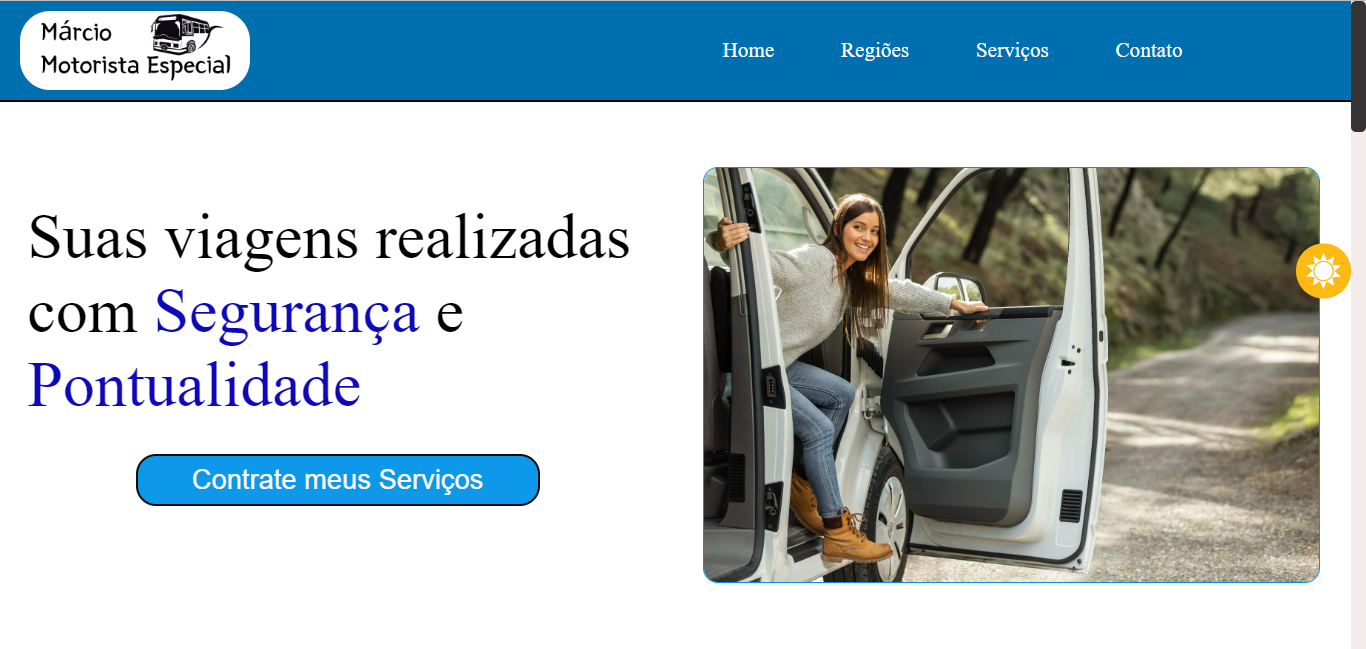
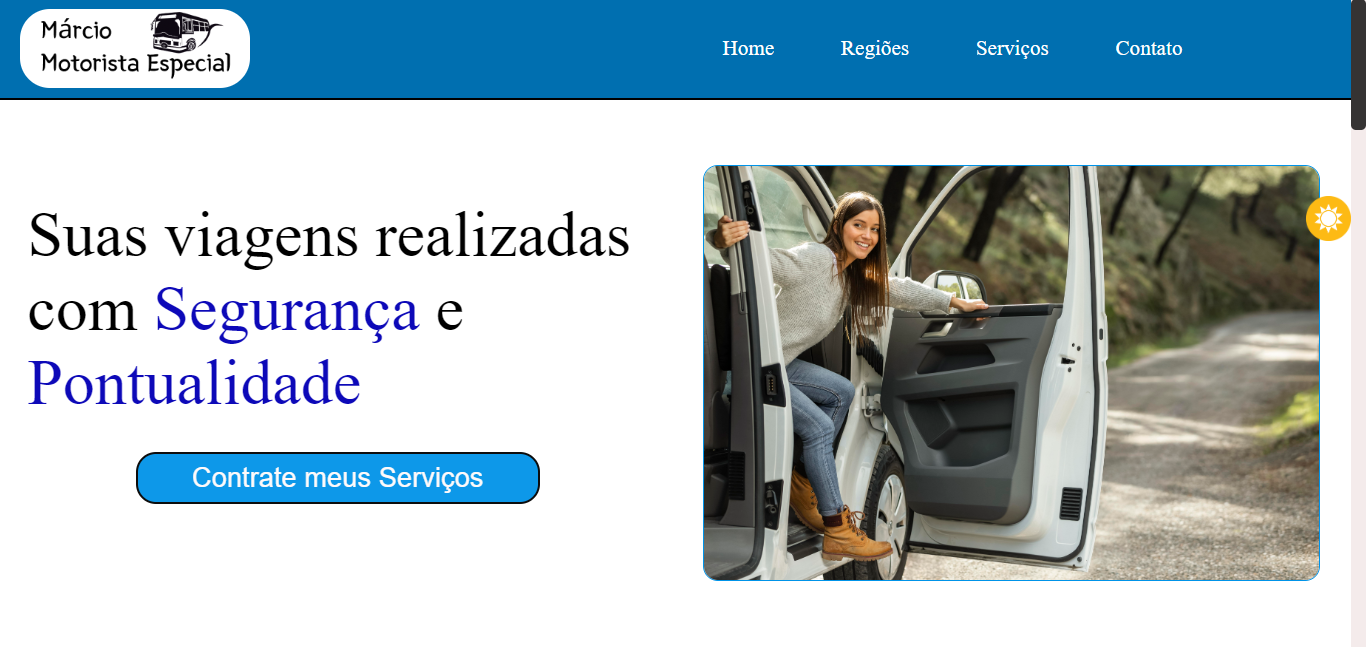
Melhorias Feitas, Ajustes no Responsivo e Alterações no Readme

diff --git a/Assets/CSS/style.css b/Assets/CSS/style.css
@@ -156,14 +156,14 @@
 
 #theme {
     position: fixed;
-    width: 55px;
-    height: 55px;
-    bottom: 50%;
+    width: 45px;
+    height: 45px;
+    bottom: 60%;
     right: 0;
     background-image: url(../IMAGES/Sun_img.png);
     background-repeat: no-repeat;
     background-size: cover;
-    transform: translateY(-50%);
+    transform: translateY(-40%);
     z-index: 1;
     transition: 0.5s;
 }
@@ -694,6 +694,10 @@ footer {
     background-color: #0093E8;
 }
 
+#footer2 {
+    display: none;
+}
+
 #footer_superior {
     width: 85%;
     height: auto;
@@ -998,7 +1002,7 @@ br{display: none;}
     /*Footer - Tablet*/
 
     footer h1 {
-        font-size: 25px;
+        font-size: 30px;
     }
 
     footer img {
@@ -1006,14 +1010,18 @@ br{display: none;}
         height: auto;
     }
 
+    footer nav {
+        width: 80%;
+    }
+
     footer a {
-        font-size: 18px;
+        font-size: 20px;
     }
 
     br {display: block;}
 
     #footer_inferior h5 {
-        font-size: 12px;
+        font-size: 15px;
     }
 }
 
@@ -1030,6 +1038,7 @@ br{display: none;}
     #header_inicial img {
         width: 38vw;
     }
+
     #header_middle {
         width: 40%;
     }
@@ -1044,6 +1053,7 @@ br{display: none;}
         display: flex;
         flex-direction: column;
     }
+
     .div_type1 {
         width: 85%;
         padding: 0;
@@ -1061,7 +1071,7 @@ br{display: none;}
     }
 
     #button_adjust, #button_adjust button {
-        width: 95%;
+        width: 90%;
         font-size: 20px;
         padding: 10px 0;
         opacity: 100%;
@@ -1070,12 +1080,17 @@ br{display: none;}
 
     #button_adjust {
         position: fixed;
+        width: 100%;
+        left: 0;
     }
 
     /*Section2 - Celular*/
 
     #section2 {
+        display: flex;
+        flex-direction: column-reverse;
         height: auto;
+        z-index: 0;
     }
 
     #section2_part1 {
@@ -1152,29 +1167,59 @@ br{display: none;}
     footer {
         z-index: 2;
     }
+
+    #footer1 {
+        display: none;
+    }
+
+    #footer2 {
+        display: flex;
+    }
+
     footer h1 {
         margin: auto;
     }
 
     footer img {
-        padding: 0;
+        padding: 0px 0 5px 0;
         margin: auto;
+        width: 70px;
     }
 
     #footer_superior {
         width: 90%;
+        display: flex;
+        flex-direction: column-reverse;
     }
 
     #footer_superior h1 {
-        font-size: 20px;
+        font-size: 7vw;
     }
 
     footer nav {
-        width: 90%;
+        width: 100%;
+        display: flex;
+        flex-direction: column;
+        text-align: center;
+        padding: 15px 0 0 0;
+    }
+
+    footer div {
+        width: 100%;
+        display: flex;
+        justify-content: space-around;
+        margin: auto;
+    }
+
+    footer a {
+        width: 50%;
+        font-size: 22px;
+        margin-bottom: 20px;
     }
 
     #footer_inferior h5 {
         font-size: 14px;
+        margin: 0;
     }
 }
 

diff --git a/index.html b/index.html
@@ -6028,11 +6028,23 @@
                 <h1>Márcio - Motorista Especial</h1>
                 <img src="Assets/IMAGES/smallbus_copy2.png" alt="Desenho de um ônibus">
             </div>
-            <nav>
+            <!--Opções do Footer para Desktop, Laptop e Tablet-->
+            <nav id="footer1">
                 <a href="#nav1" class="footer_options">Home</a>
                 <a href="#section2" class="footer_options">Regiões</a>
                 <a href="#section3" class="footer_options">Serviços</a>
                 <a href="#section4" class="footer_options">Contato</a>
+            </nav>
+            <!--Opções do Footer para Celular-->
+            <nav id="footer2">
+                <div>
+                    <a href="#nav1" class="footer_options">Home</a>
+                    <a href="#section2" class="footer_options">Regiões</a>
+                </div>
+                <div>
+                    <a href="#section3" class="footer_options">Serviços</a>
+                    <a href="#section4" class="footer_options">Contato</a>
+                </div>
             </nav>
             <div id="footer_inferior">
                 <h5>© Márcio - Motorista Especial | Copyright 2023 | <br> Criado com 💙 por Matheus Júnior</h5>

diff --git a/Assets/JS/script.js b/Assets/JS/script.js
@@ -63,7 +63,7 @@ function mudarTema(){
                // document.getElementById(`investimento${i+1}`).style.backgroundColor="#262626"; O $ serve para colocar uma variável dentro da string, e é necessário que a variável esteja entre uma chave e a variávl dentro dos parênteses deve estar dentro de uma crase
             }
 
-            for (i=0; i<=3; i++){
+            for (i=0; i<=7; i++){
                 document.getElementsByClassName("footer_options")[i].style.color="#fff";
             }
 
@@ -112,7 +112,7 @@ function mudarTema(){
                 document.getElementsByClassName("text_color2")[i].style.cssText="color: #000";
             }
 
-            for (i=0; i<=3; i++){
+            for (i=0; i<=7; i++){
                 document.getElementsByClassName("footer_options")[i].style.color="#000";
             }
 

diff --git a/README.md b/README.md
@@ -10,7 +10,7 @@ Márcio - Motorista Especial é um site que preza pelo serviço de motorista par
 
 <br>
 
-Esse projeto faz parte do "Corre da Quebrada", projeto ministrado pela Professora Débora no Instituto PROA; esse é o primeiro projeto individual.
+Esse projeto faz parte do "Corre da Quebrada", projeto ministrado pela Professora Débora no Instituto PROA; esse também é o nosso primeiro projeto individual, e gostaria de agradecer a todos do PROA, pois eles foram essenciais para o meu desenvolvimento.
 </p>
 
 #
